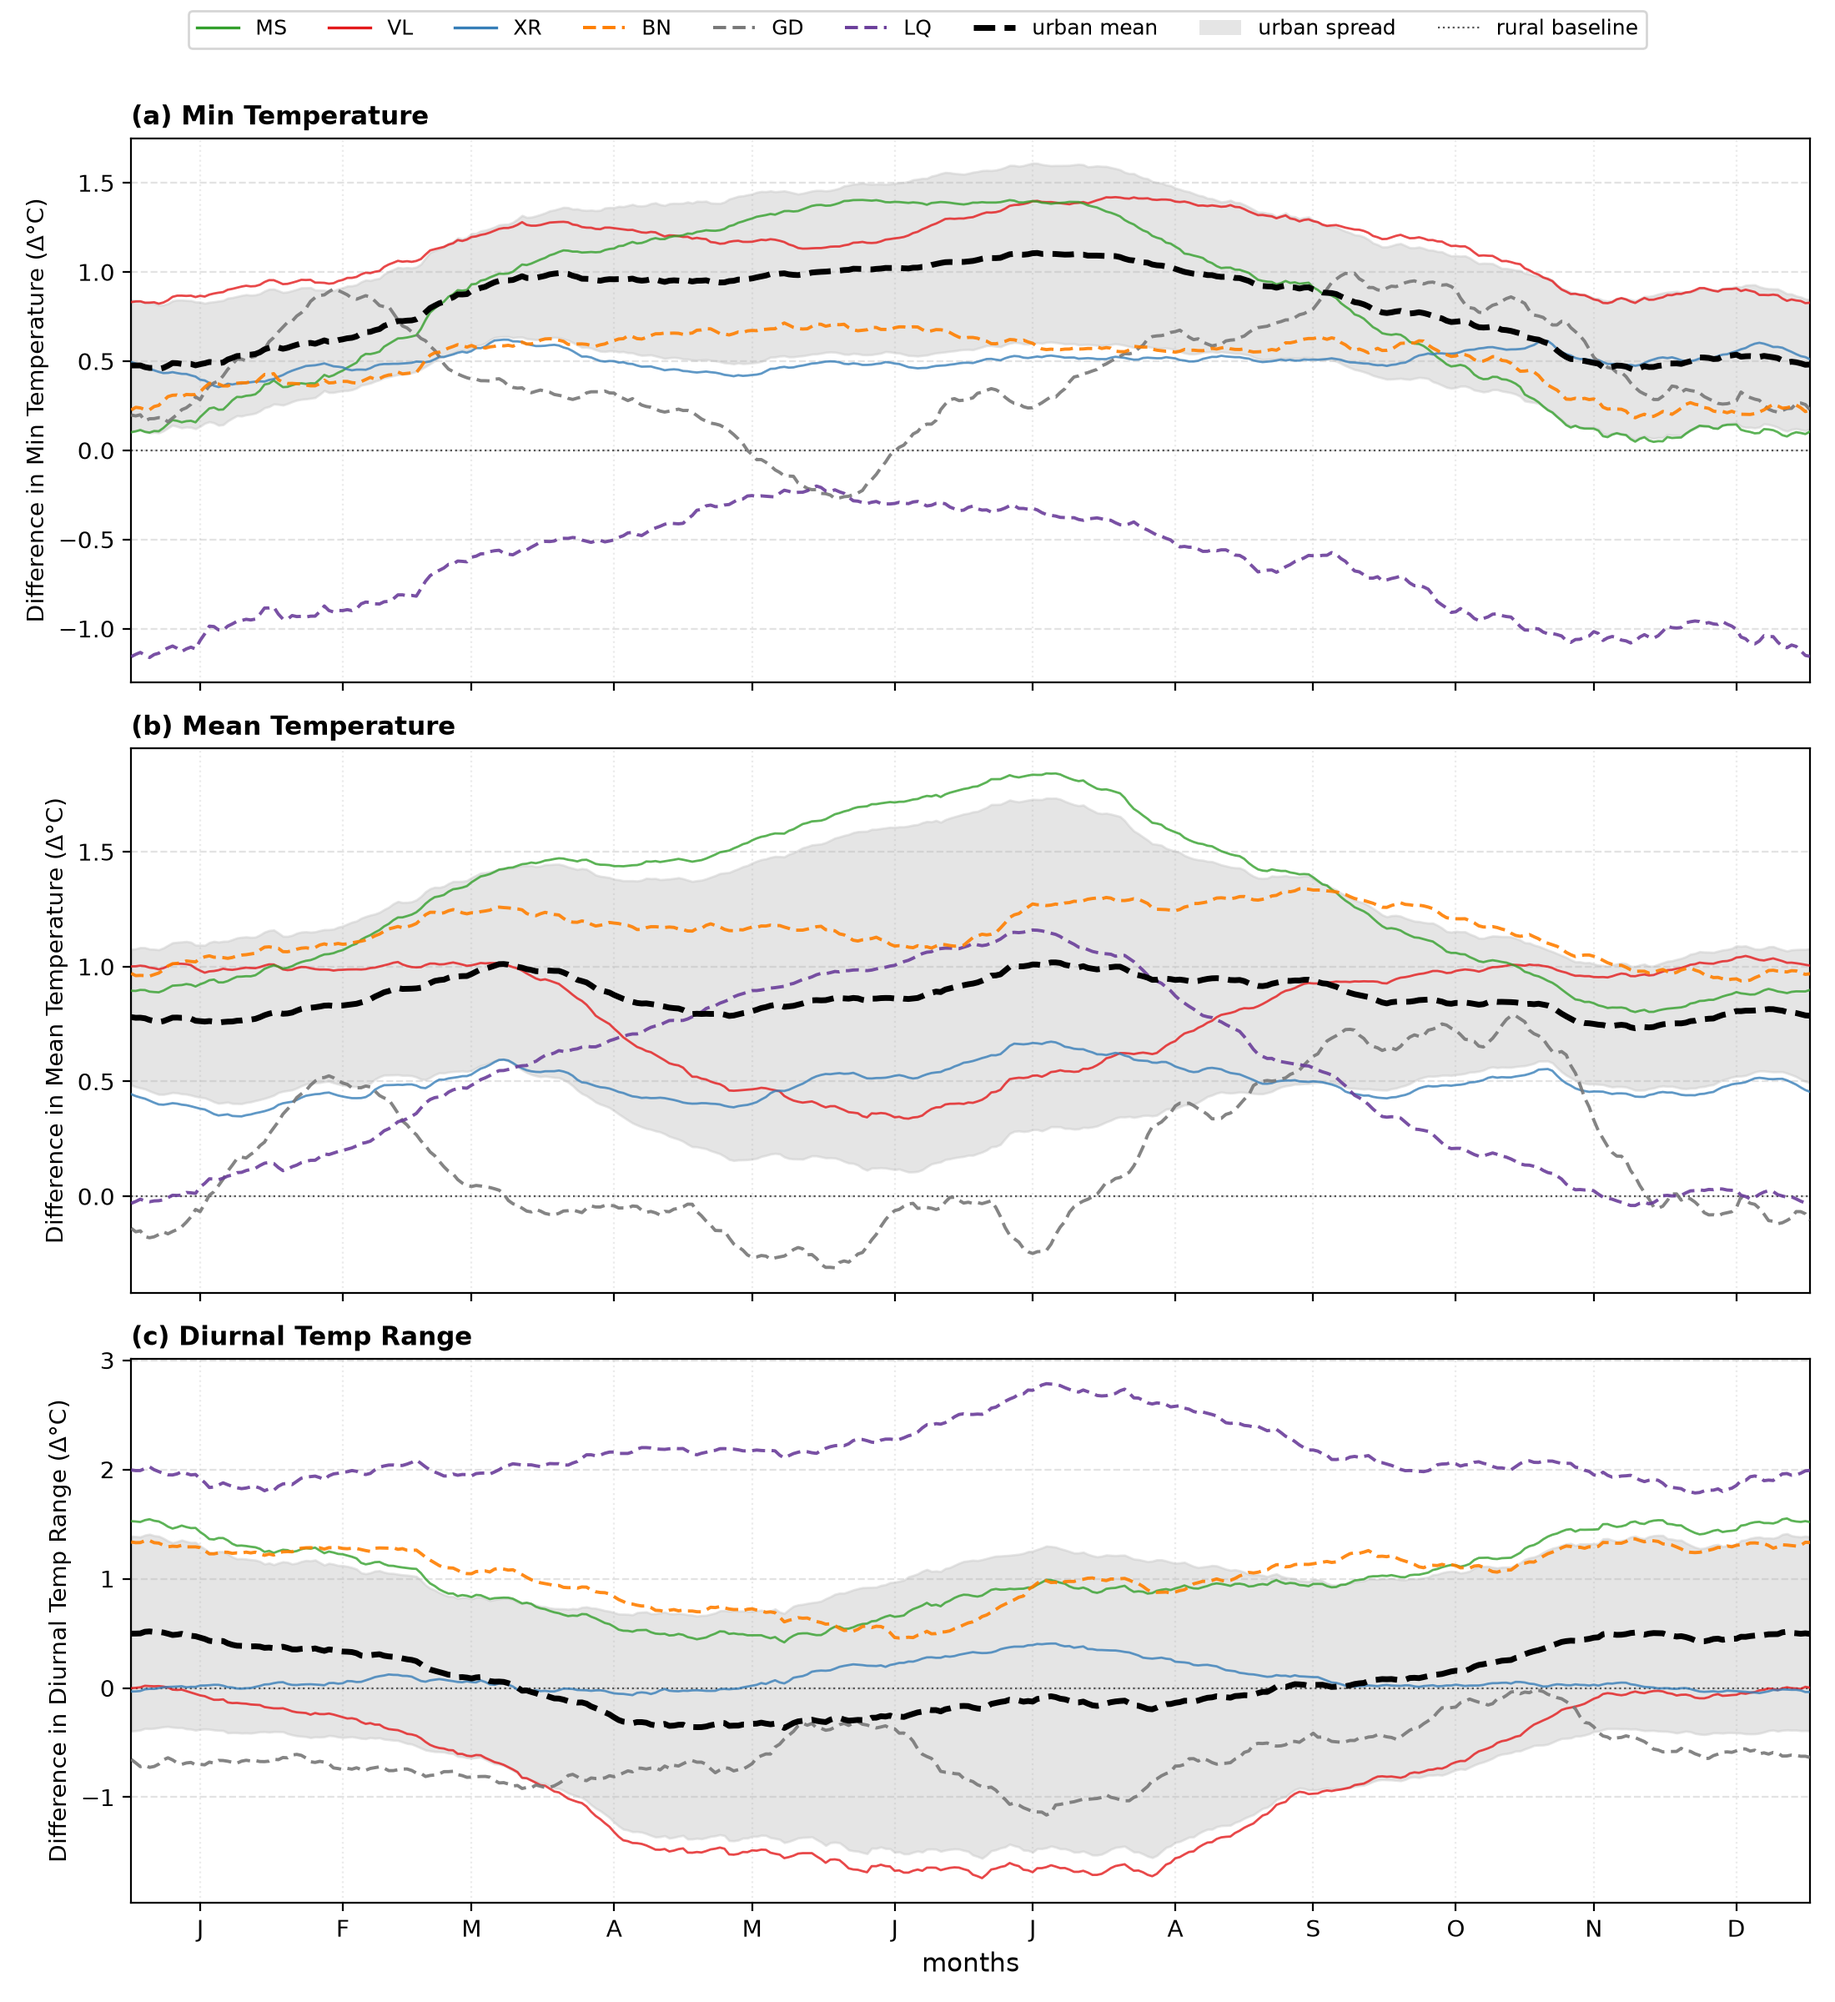
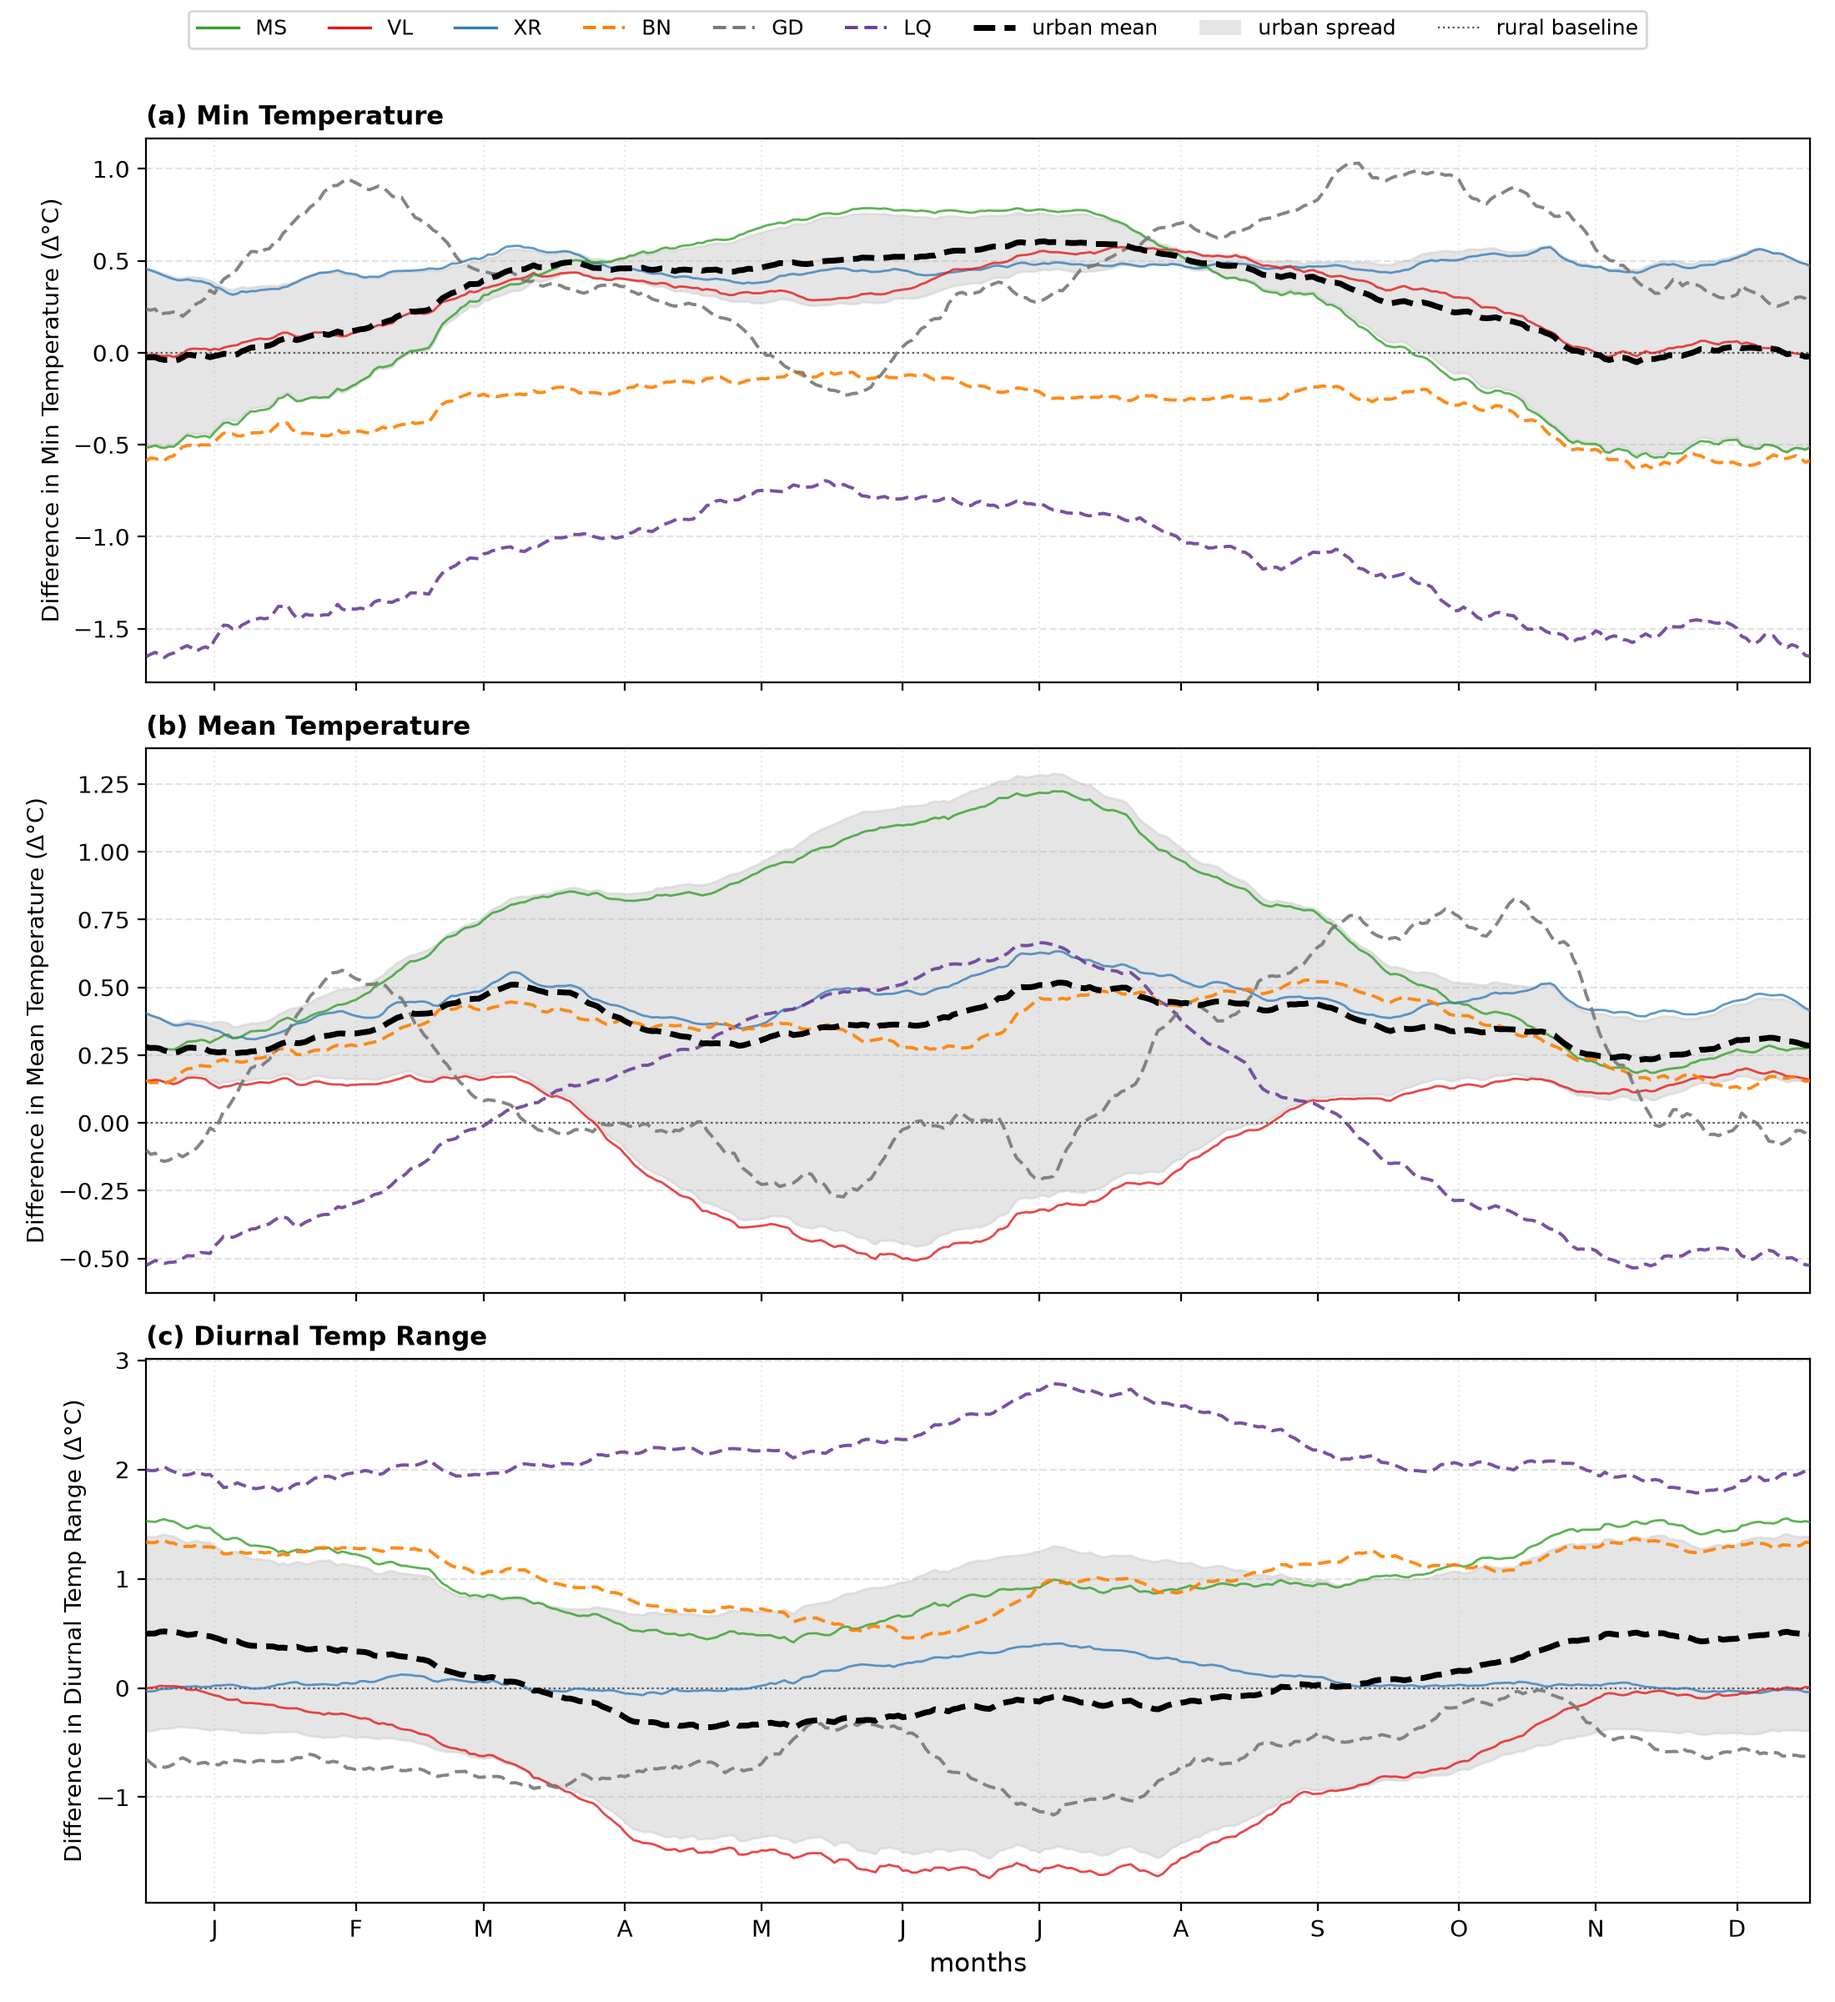
updated Fig11 to include elevation adjustment

diff --git a/4.2_Urban-heat-island/uhi/figure_uhi_ac_panel_native-elev.py b/4.2_Urban-heat-island/uhi/figure_uhi_ac_panel_native-elev.py
@@ -1,0 +1,225 @@
+"""
+Figure panel: UHI annual-cycle (3x1)
+====================================
+Combines the min-temp / mean-temp / DTR UHI annual-cycle plots into one
+stacked panel with a single shared legend and a shared bottom x-axis.
+Reuses the computation logic from plot_uhi_annual_cycle.py.
+
+Usage:
+    python3 figure_uhi_panel.py
+
+Output: {workdir}/analysis/uhi/figure_uhi_panel_native-elev.png
+"""
+
+import os
+import string
+import numpy as np
+import pandas as pd
+import matplotlib
+matplotlib.use("Agg")
+import matplotlib.pyplot as plt
+import matplotlib.lines as mlines
+import matplotlib.patches as mpatches
+
+workdir = "/mnt/d/Storage/James/Dropbox/PALEOSIM/Research/WP2/climate assessment/Maltese Islands Climate/"
+
+# Panel order (top -> bottom). Titles use the short label only.
+# (varname, csv_col, short_title, unit)
+PANEL_VARS = [
+    ("Min_Temp",    "Min Temperature", "Min Temperature",  "°C"),
+    ("Temperature", "Temperature",     "Mean Temperature", "°C"),
+    ("DTR",         None,              "Diurnal Temp Range", "°C"),
+]
+
+ALL_STATIONS = [
+    ("Giordan","GD"), ("Xagħra","XR"), ("Xewkija","XW"), ("Selmun","SL"),
+    ("Dingli","DN"), ("Msida","MS"), ("Valletta","VL"), ("Luqa","LQ"),
+    ("Bengħajsa","BN"),
+]
+STATION_FILENAMES = {
+    "GD":"Giordan", "XR":"Xagħra", "XW":"Xewkija", "SL":"Selmun", "DN":"Dingli",
+    "MS":"Birkirkara", "VL":"Valletta", "LQ":"Luqa", "BN":"Bengħajsa",
+}
+URBAN_STATIONS     = {"VL", "MS", "XR"}
+RURAL_STATIONS     = {"XW", "SL", "DN"}
+MONITORED_STATIONS = {"LQ", "BN", "GD"}
+
+URBAN_COLOURS     = {"VL":"#e31a1c", "MS":"#33a02c", "XR":"#377eb8"}
+MONITORED_COLOURS = {"LQ":"#6a3d9a", "BN":"#ff7f00", "GD":"#777777"}
+
+DATE_COL      = "Date"
+MISSING_VAL   = "-"
+SMOOTH_WINDOW = 31
+OUTPUT_DIR    = f"{workdir}/analysis/uhi"
+
+# ---------------------------------------------------------------------------
+# Computation — copied from plot_uhi_annual_cycle.py
+# ---------------------------------------------------------------------------
+
+def load_daily(abbr):
+    fn = STATION_FILENAMES.get(abbr)
+    if fn is None:
+        return None
+    fp = f"{workdir}/Data/Daily_{fn}.csv"
+    if not os.path.exists(fp):
+        return None
+    try:
+        df = pd.read_csv(fp, header=0)
+        df[DATE_COL] = pd.to_datetime(df[DATE_COL], dayfirst=True, errors="coerce")
+        df = df[df[DATE_COL] >= pd.Timestamp("2007-01-01")]
+        return df.dropna(subset=[DATE_COL]).set_index(DATE_COL)
+    except Exception:
+        return None
+
+def find_col(df, target):
+    if target is None:
+        return None
+    if target in df.columns:
+        return target
+    norm = lambda s: s.lower().replace(" ", "_")
+    m = [c for c in df.columns if norm(c) == norm(target)]
+    return m[0] if m else None
+
+def get_daily_series(df, varname, col_name):
+    if varname == "DTR":
+        ct = find_col(df, "Max Temperature"); cn = find_col(df, "Min Temperature")
+        if ct is None or cn is None:
+            return None
+        tmax = pd.to_numeric(df[ct].replace(MISSING_VAL, np.nan), errors="coerce")
+        tmin = pd.to_numeric(df[cn].replace(MISSING_VAL, np.nan), errors="coerce")
+        return tmax - tmin
+    col = find_col(df, col_name)
+    if col is None:
+        return None
+    return pd.to_numeric(df[col].replace(MISSING_VAL, np.nan), errors="coerce")
+
+def doy_climatology(series):
+    return series.groupby(series.index.dayofyear).mean().reindex(range(1, 367))
+
+def smooth(series, window):
+    if window <= 1:
+        return series
+    vals = series.values
+    pad = window // 2
+    padded = np.concatenate([vals[-pad:], vals, vals[:pad]])
+    sm = pd.Series(padded).rolling(window, center=True, min_periods=1).mean().values
+    return pd.Series(sm[pad:-pad], index=series.index)
+
+def month_tick_positions():
+    months = ["J","F","M","A","M","J","J","A","S","O","N","D"]
+    mids   = [16,47,75,106,136,167,197,228,258,289,319,350]
+    return mids, months
+
+def compute_clims(varname, col_name, daily_data):
+    clims = {}
+    for _, abbr in ALL_STATIONS:
+        if abbr not in daily_data:
+            continue
+        s = get_daily_series(daily_data[abbr], varname, col_name)
+        if s is None:
+            continue
+        clims[abbr] = smooth(doy_climatology(s.dropna()), SMOOTH_WINDOW)
+    return clims
+
+# ---------------------------------------------------------------------------
+# Drawing one variable onto an axis
+# ---------------------------------------------------------------------------
+
+def draw_uhi(ax, varname, col_name, ylabel, unit, daily_data, show_xlabel):
+    clims = compute_clims(varname, col_name, daily_data)
+    if not clims:
+        return
+    x = np.arange(1, 367)
+    tick_pos, tick_labels = month_tick_positions()
+
+    rural_abbrs = [a for a in RURAL_STATIONS if a in clims]
+    if not rural_abbrs:
+        return
+    rural_mean = pd.concat([clims[a] for a in rural_abbrs], axis=1).mean(axis=1)
+
+    urban_clims     = {a: clims[a] for a in URBAN_STATIONS if a in clims}
+    monitored_clims = {a: clims[a] for a in MONITORED_STATIONS if a in clims}
+
+    deltas = {a: c.reindex(x) - rural_mean.reindex(x) for a, c in urban_clims.items()}
+    mono_deltas = {a: c.reindex(x) - rural_mean.reindex(x)
+                   for a, c in monitored_clims.items()}
+
+    delta_df = pd.DataFrame(deltas)
+    mean_delta = delta_df.mean(axis=1)
+    std_delta  = delta_df.std(axis=1)
+
+    ax.fill_between(x, mean_delta.values - std_delta.values,
+                    mean_delta.values + std_delta.values,
+                    color="#cccccc", alpha=0.5, zorder=1)
+    for a, d in deltas.items():
+        ax.plot(x, d.values, color=URBAN_COLOURS.get(a, "#888888"),
+                linewidth=1.0, alpha=0.8, zorder=3)
+    for a, d in mono_deltas.items():
+        ax.plot(x, d.values, color=MONITORED_COLOURS.get(a, "#777777"),
+                linewidth=1.4, linestyle=(0, (4, 2)), alpha=0.9, zorder=4)
+    ax.plot(x, mean_delta.values, color="#000000", linewidth=2.5,
+            linestyle="--", zorder=5)
+    ax.axhline(0, color="#555555", linewidth=0.8, linestyle=":", zorder=2)
+
+    ax.set_xlim(1, 366)
+    ax.set_xticks(tick_pos)
+    if show_xlabel:
+        ax.set_xticklabels(tick_labels, fontsize=10)
+        ax.set_xlabel("months", fontsize=11)
+    else:
+        ax.set_xticklabels([])
+    ax.set_ylabel(f"Difference in {ylabel} (Δ{unit})", fontsize=10)
+    ax.grid(axis="y", linestyle="--", alpha=0.35)
+    ax.grid(axis="x", linestyle=":", alpha=0.25)
+
+def build_legend_handles():
+    handles = []
+    for a in sorted(URBAN_STATIONS):
+        handles.append(mlines.Line2D([], [], color=URBAN_COLOURS.get(a, "#888888"),
+                       linewidth=1.2, label=a))
+    for a in sorted(MONITORED_STATIONS):
+        handles.append(mlines.Line2D([], [], color=MONITORED_COLOURS.get(a, "#777777"),
+                       linewidth=1.4, linestyle=(0, (4, 2)), label=a))
+    handles.append(mlines.Line2D([], [], color="#000000", linewidth=2.5,
+                   linestyle="--", label="urban mean"))
+    handles.append(mpatches.Patch(facecolor="#cccccc", edgecolor="none",
+                   alpha=0.5, label="urban spread"))
+    handles.append(mlines.Line2D([], [], color="#555555", linewidth=0.8,
+                   linestyle=":", label="rural baseline"))
+    return handles
+
+# ---------------------------------------------------------------------------
+# Main
+# ---------------------------------------------------------------------------
+
+def main():
+    print("[load] Reading daily data files ...")
+    daily_data = {}
+    for _, abbr in ALL_STATIONS:
+        df = load_daily(abbr)
+        if df is not None:
+            daily_data[abbr] = df
+
+    fig, axes = plt.subplots(3, 1, figsize=(11.0, 12.0), squeeze=False)
+    letters = list(string.ascii_lowercase)
+
+    for idx, (varname, col_name, title, unit) in enumerate(PANEL_VARS):
+        ax = axes[idx][0]
+        is_bottom = (idx == len(PANEL_VARS) - 1)
+        draw_uhi(ax, varname, col_name, title, unit, daily_data, show_xlabel=is_bottom)
+        ax.set_title(f"({letters[idx]}) {title}", fontsize=11,
+                     fontweight="bold", loc="left")
+
+    # Single shared legend across the top
+    fig.legend(handles=build_legend_handles(), loc="upper center",
+               bbox_to_anchor=(0.5, 1.0), ncol=9, fontsize=9, frameon=True) 
+
+    fig.tight_layout(rect=[0, 0, 1, 0.96])
+    out_path = os.path.join(OUTPUT_DIR, "figure_uhi_panel_native-elev.png")
+    os.makedirs(OUTPUT_DIR, exist_ok=True)
+    fig.savefig(out_path, dpi=200)
+    plt.close(fig)
+    print(f"[saved] {out_path}")
+
+if __name__ == "__main__":
+    main()

diff --git a/4.2_Urban-heat-island/Fig11_uhi_ac_panel.py b/4.2_Urban-heat-island/Fig11_uhi_ac_panel.py
@@ -44,6 +44,12 @@ URBAN_STATIONS     = {"VL", "MS", "XR"}
 RURAL_STATIONS     = {"XW", "SL", "DN"}
 MONITORED_STATIONS = {"LQ", "BN", "GD"}
 
+# Elevation adjustment (Section 4.2): Tmin and mean T adjusted to sea level
+ELEVATION_ADJUST = True    # False = unadjusted version (SM)
+ELEVATIONS = {"GD":167, "XR":155, "XW":104, "SL":129, "DN":250,
+              "MS":66,  "VL":31,  "LQ":85,  "BN":36}   # Table 1, m a.s.l.
+LAPSE_RATE = 0.0065        # °C per m (6.5 °C/km)
+
 URBAN_COLOURS     = {"VL":"#e31a1c", "MS":"#33a02c", "XR":"#377eb8"}
 MONITORED_COLOURS = {"LQ":"#6a3d9a", "BN":"#ff7f00", "GD":"#777777"}
 
@@ -118,6 +124,8 @@ def compute_clims(varname, col_name, daily_data):
         s = get_daily_series(daily_data[abbr], varname, col_name)
         if s is None:
             continue
+        if ELEVATION_ADJUST and varname != "DTR":
+            s = s + LAPSE_RATE * ELEVATIONS[abbr]
         clims[abbr] = smooth(doy_climatology(s.dropna()), SMOOTH_WINDOW)
     return clims
 
@@ -215,7 +223,9 @@ def main():
                bbox_to_anchor=(0.5, 1.0), ncol=9, fontsize=9, frameon=True) 
 
     fig.tight_layout(rect=[0, 0, 1, 0.96])
-    out_path = os.path.join(OUTPUT_DIR, "figure_uhi_panel.png")
+    fname = ("figure_uhi_panel.png" if ELEVATION_ADJUST
+             else "figure_uhi_panel_no-elevation-adj.png")
+    out_path = os.path.join(OUTPUT_DIR, fname)
     os.makedirs(OUTPUT_DIR, exist_ok=True)
     fig.savefig(out_path, dpi=200)
     plt.close(fig)
